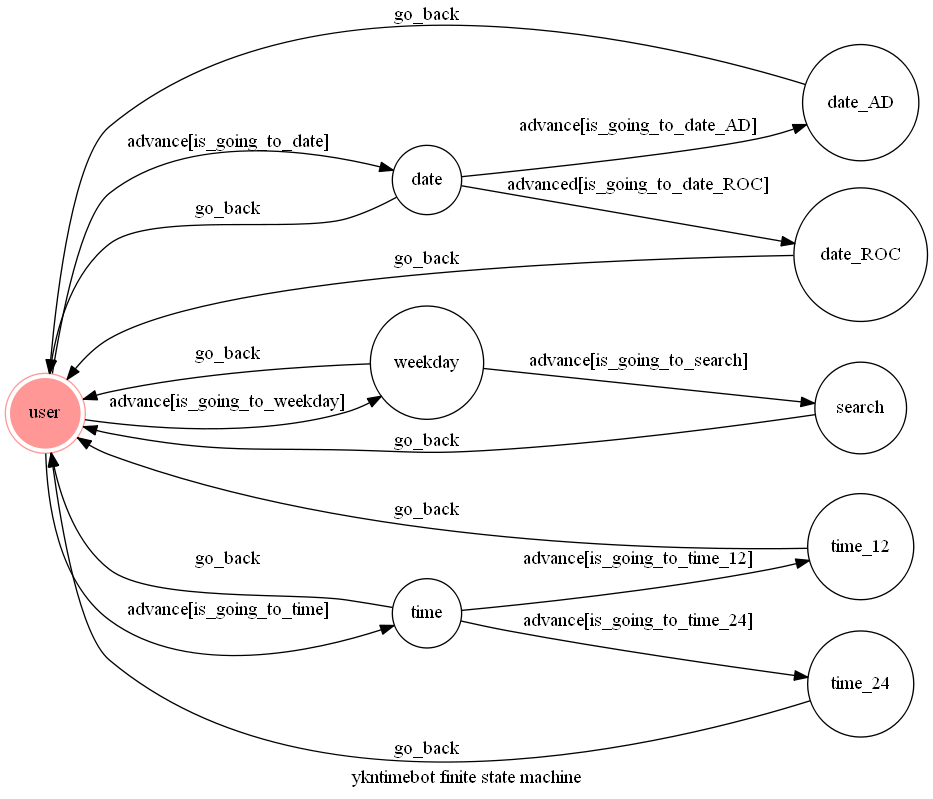
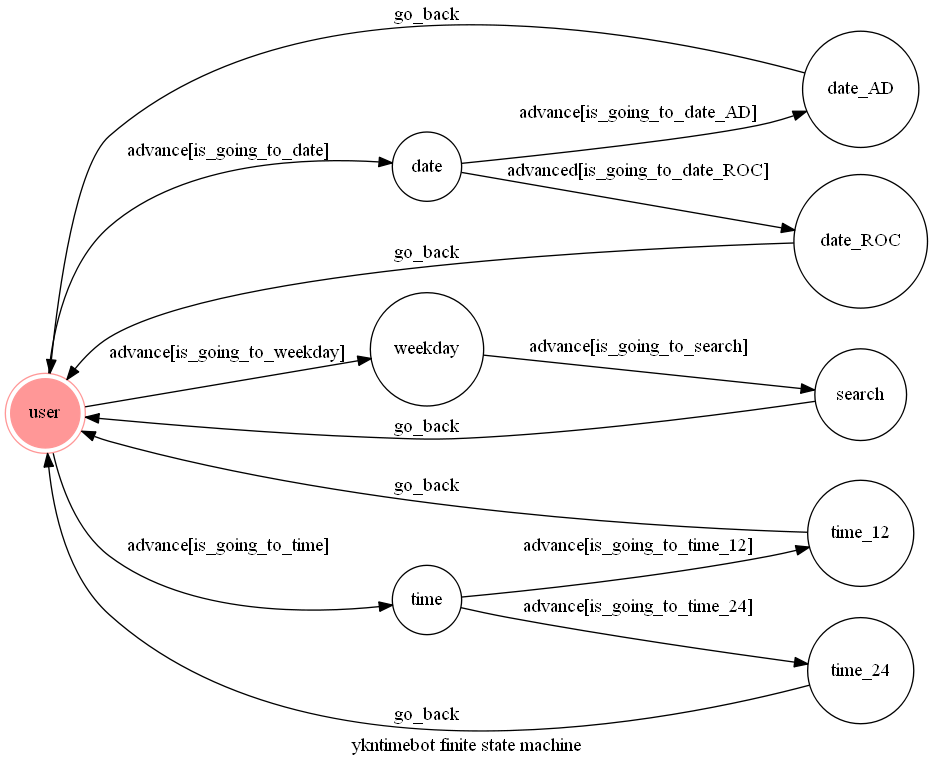
final version 2

diff --git a/app.py b/app.py
@@ -24,7 +24,7 @@ machine = TocMachine(
         {"trigger": "advance","source": "weekday","dest": "search","conditions": "is_going_to_search",},
         {"trigger": "advance","source": "time","dest": "time_12","conditions": "is_going_to_time_12",},
         {"trigger": "advance","source": "time","dest": "time_24","conditions": "is_going_to_time_24",},
-        {"trigger": "go_back", "source": ["date", "date_AD", "date_ROC", "weekday", "search", "time", "time_12", "time_24"], "dest": "user"},
+        {"trigger": "go_back", "source": ["date_AD", "date_ROC", "search", "time_12", "time_24"], "dest": "user"},
     ],
     initial="user",
     auto_transitions=False,
